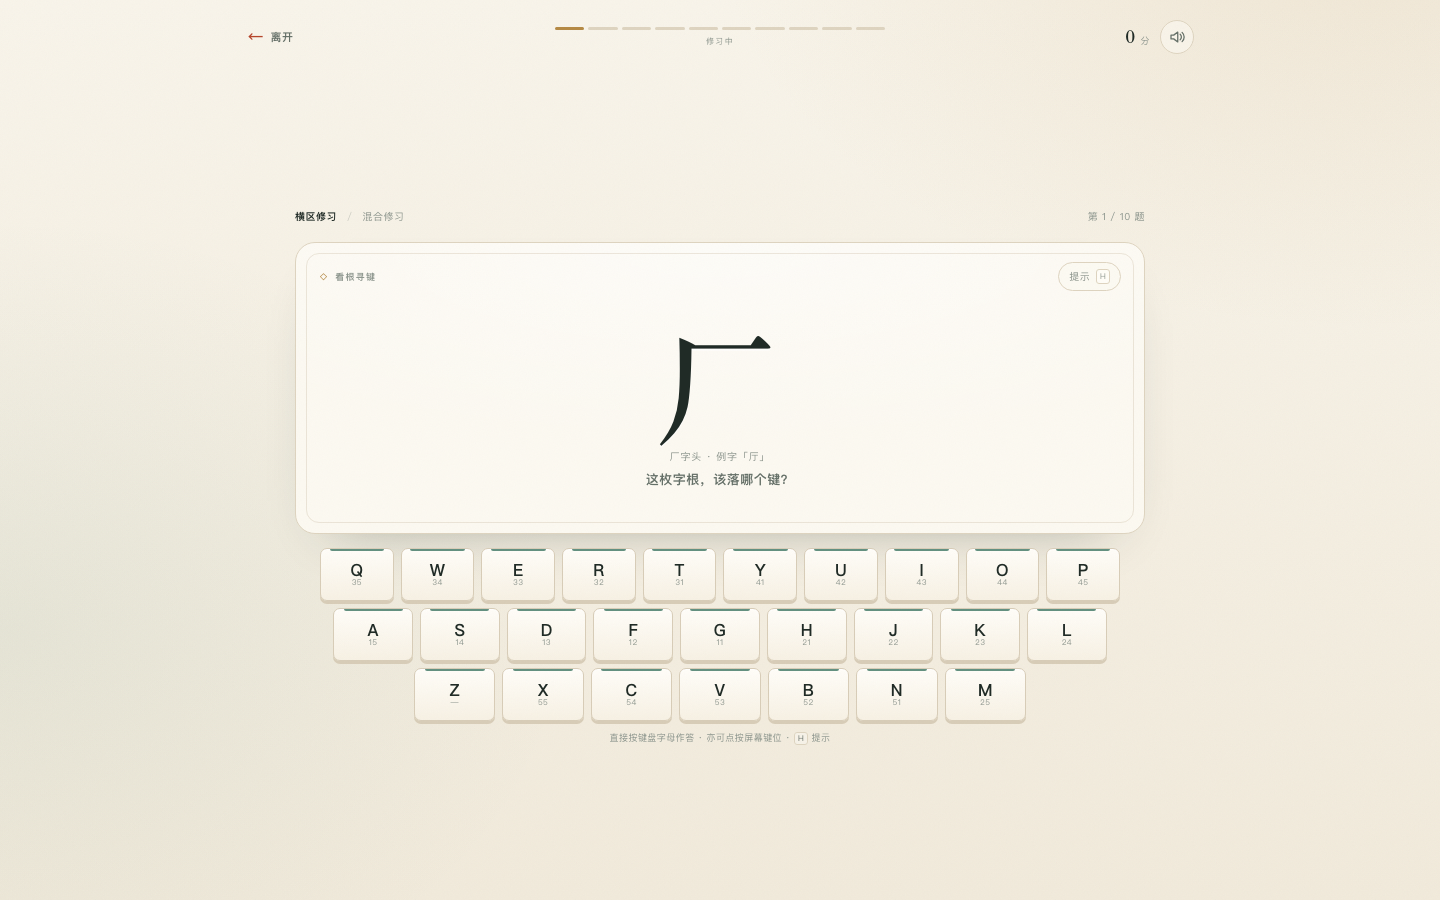
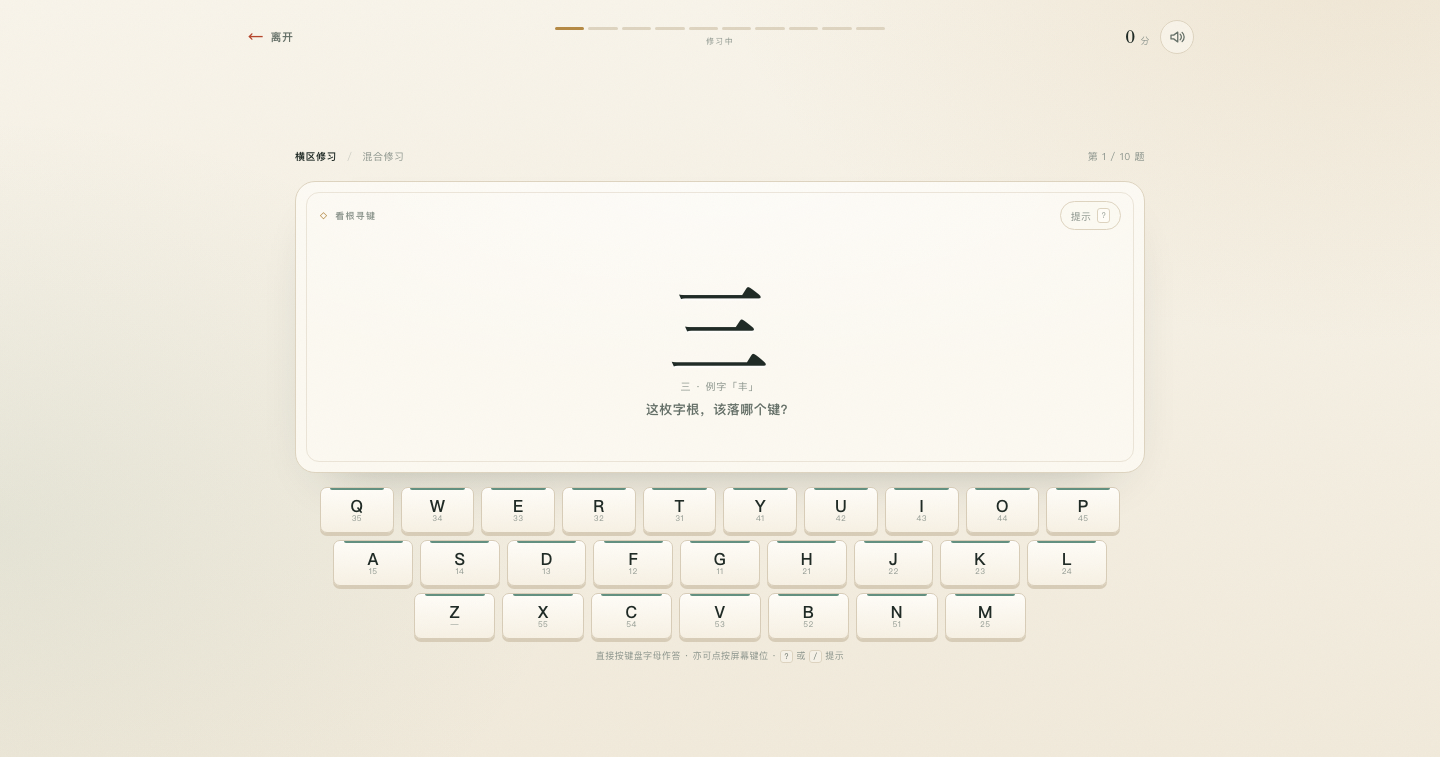
feat(wubi): 口诀簿增加语音朗读，提示快捷键改为 ? /
- 按字母键 A-Z 朗读对应口诀（SpeechSynthesis API）
- 朗读时高亮行、脉冲动画、顶部状态提示
- 提示快捷键从 H 改为 ? 或 /，避免占用五笔键位
- 更新引导文案、无障碍标签与截图

diff --git a/wubi/index.html b/wubi/index.html
@@ -662,8 +662,11 @@
   .toggle-pill[aria-pressed="true"]::before { background: var(--cinnabar); }
   .toggle-pill:hover { transform: translateY(-1px); }
 
-  .book-note { display: flex; align-items: center; gap: 8px; margin: 17px 0 8px; color: var(--ink-faint); font-size: 10px; letter-spacing: .05em; }
-  .book-note::before { content: "○"; color: var(--gold); font-size: 9px; }
+  .book-note { display: flex; align-items: center; gap: 8px; margin: 17px 0 8px; color: var(--ink-faint); font-size: 10px; letter-spacing: .05em; transition: color .16s; }
+  .book-note::before { content: "○"; color: var(--gold); font-size: 9px; transition: color .16s; }
+  .book-note.is-speaking { color: var(--ink); }
+  .book-note.is-speaking::before { content: "◉"; color: var(--cinnabar); animation: voicePulse 1s ease-in-out infinite; }
+  @keyframes voicePulse { 0%, 100% { opacity: .45; transform: scale(.9); } 50% { opacity: 1; transform: scale(1.14); } }
   .mnemonic-book { display: flex; flex-direction: column; gap: 30px; padding-top: 12px; }
   .book-zone { --zc: var(--jade); }
   .book-zone-head { display: flex; align-items: center; gap: 12px; padding: 0 2px 10px; border-bottom: 1px solid var(--line); }
@@ -687,6 +690,12 @@
   }
   .book-line:hover { background: rgba(255, 253, 247, .58); }
   .book-line.revealed { background: rgba(252, 249, 241, .8); }
+  .book-line.is-speaking {
+    background: color-mix(in srgb, var(--zc) 7%, #FFFDF8);
+    box-shadow: inset 3px 0 0 var(--zc);
+  }
+  .book-line.is-speaking .line-mnemonic { color: var(--zc); }
+  .book-line.is-speaking .line-key { border-color: var(--zc); box-shadow: 0 0 0 3px color-mix(in srgb, var(--zc) 13%, transparent); }
   .line-key {
     width: 42px;
     height: 42px;
@@ -708,6 +717,10 @@
   .line-roots .roots-label { font-family: var(--sans); font-size: 9px; letter-spacing: .03em; color: var(--ink-faint); opacity: .75; margin-right: 4px; }
   .line-side { display: flex; align-items: center; gap: 9px; color: var(--ink-faint); font-size: 9px; letter-spacing: .04em; white-space: nowrap; }
   .line-side .line-code { color: var(--ink-faint); font-family: var(--serif); }
+  .line-listen { display: inline-flex; align-items: center; gap: 3px; color: var(--zc); opacity: .7; transition: opacity .16s, color .16s; }
+  .line-listen svg { width: 13px; height: 13px; fill: none; stroke: currentColor; stroke-width: 1.5; stroke-linecap: round; stroke-linejoin: round; }
+  .book-line:hover .line-listen, .book-line:focus-visible .line-listen, .book-line.is-speaking .line-listen { opacity: 1; }
+  .book-line.is-speaking .line-listen { color: var(--cinnabar); }
   .line-side .reveal-hint { color: var(--cinnabar); opacity: 0; transition: opacity .16s; }
   .book-line:hover .reveal-hint, .book-line:focus-visible .reveal-hint { opacity: 1; }
   .book-line.revealed .reveal-hint { opacity: 1; color: var(--jade); }
@@ -1313,7 +1326,7 @@
       <div>
         <p class="eyebrow">口诀簿 · 廿五句</p>
         <h1>读诀，寻键</h1>
-        <p class="page-lede">五笔口诀把字根串成有韵律的短句。先读熟，再遮住键位默想；想不起来时，点开看一眼也无妨。</p>
+        <p class="page-lede">五笔口诀把字根串成有韵律的短句。按字母键 A–Z 就能听对应的口诀；先读熟，再遮住键位默想。</p>
       </div>
       <div class="page-action book-actions">
         <button class="toggle-pill" type="button" id="bookMaskToggle" aria-pressed="false">遮住键位</button>
@@ -1323,7 +1336,7 @@
         </button>
       </div>
     </div>
-    <p class="book-note" id="bookNote">点击上方「遮住键位」，再逐句默想与翻看。</p>
+    <p class="book-note" id="bookNote">按字母键 A–Z 听对应口诀；点击任意一句也可朗读。</p>
     <div class="mnemonic-book" id="mnemonicBook"></div>
   </section>
 
@@ -1360,7 +1373,7 @@
         <div class="question-card" id="questionCard" aria-live="polite">
           <div class="q-topline">
             <span class="q-type" id="qType">看根寻键</span>
-            <button class="hint-btn" type="button" id="hintBtn">提示 <kbd>H</kbd></button>
+            <button class="hint-btn" type="button" id="hintBtn" title="快捷键：? 或 /">提示 <kbd>?</kbd></button>
           </div>
           <div class="q-body" id="qBody"></div>
           <div class="q-result" id="qResult" hidden></div>
@@ -1368,7 +1381,7 @@
 
         <div class="keyboard-wrap">
           <div class="keyboard" id="keyboard" aria-label="五笔键位键盘"></div>
-          <p class="keyboard-note">直接按键盘字母作答 · 亦可点按屏幕键位 · <kbd>H</kbd> 提示</p>
+          <p class="keyboard-note">直接按键盘字母作答 · 亦可点按屏幕键位 · <kbd>?</kbd> 或 <kbd>/</kbd> 提示</p>
         </div>
       </div>
 
@@ -1717,7 +1730,8 @@
     save.sound = !save.sound;
     persist();
     updateSoundButtons();
-    if (save.sound) playHint();
+    if (!save.sound) stopBookSpeech(true);
+    else playHint();
     toast(save.sound ? '音效已开启' : '音效已关闭');
   }
 
@@ -1865,6 +1879,7 @@
 
   /* ======================= 视图切换 ======================= */
   function showView(name) {
+    if (name !== 'book') stopBookSpeech(false);
     state.view = name;
     $all('.view').forEach(view => { view.hidden = view.id !== 'view-' + name; });
     document.body.classList.toggle('in-game', name === 'game');
@@ -1954,7 +1969,94 @@
   }
 
   /* ======================= 口诀簿 ======================= */
+  let bookSpeechToken = 0;
+
+  function bookDefaultNote() {
+    return state.bookMasked
+      ? '按字母键 A–Z 听对应口诀；点击任意一句可翻看键位。'
+      : '按字母键 A–Z 听对应口诀；点击任意一句也可朗读。';
+  }
+
+  function pickChineseVoice() {
+    if (!('speechSynthesis' in window)) return null;
+    const voices = window.speechSynthesis.getVoices() || [];
+    const chinese = voices.filter(v => /^zh([-_]|$)/i.test(v.lang || '') || /chinese|mandarin|普通话|中文/i.test((v.name || '') + ' ' + (v.lang || '')));
+    return chinese.find(v => /^zh[-_]?cn/i.test(v.lang || '')) || chinese[0] || null;
+  }
+
+  function stopBookSpeech(restoreNote = true) {
+    bookSpeechToken += 1;
+    try {
+      if ('speechSynthesis' in window) window.speechSynthesis.cancel();
+    } catch (err) { /* 不支持语音合成时静默忽略 */ }
+    $all('.book-line.is-speaking').forEach(line => line.classList.remove('is-speaking'));
+    const note = $('#bookNote');
+    if (note) {
+      note.classList.remove('is-speaking');
+      if (restoreNote && state.view === 'book') note.textContent = bookDefaultNote();
+    }
+  }
+
+  function speakBookKey(key) {
+    if (!KEYS[key]) { toast('Z 键不属于五笔字根键'); return; }
+    if (!save.sound) { toast('音效已关闭，点右上角声音按钮后再朗读'); return; }
+    const line = document.querySelector(`.book-line[data-book-key="${key}"]`);
+    if (!line) return;
+
+    stopBookSpeech(false);
+    const token = ++bookSpeechToken;
+    line.classList.add('is-speaking');
+    const note = $('#bookNote');
+    if (note) {
+      note.classList.add('is-speaking');
+      note.textContent = `正在朗读 ${key} 键 · ${KEYS[key].mnemonic}`;
+    }
+
+    const rect = line.getBoundingClientRect();
+    if (rect.top < 78 || rect.bottom > window.innerHeight - 26) {
+      line.scrollIntoView({ behavior: reduceMotion ? 'auto' : 'smooth', block: 'center' });
+    }
+
+    const supported = 'speechSynthesis' in window && 'SpeechSynthesisUtterance' in window;
+    if (!supported) {
+      toast('当前浏览器不支持语音朗读');
+      window.setTimeout(() => { if (token === bookSpeechToken) stopBookSpeech(true); }, 1600);
+      return;
+    }
+
+    try {
+      window.speechSynthesis.cancel();
+      const utter = new SpeechSynthesisUtterance(KEYS[key].mnemonic);
+      const voice = pickChineseVoice();
+      utter.lang = 'zh-CN';
+      utter.rate = .82;
+      utter.pitch = 1;
+      utter.volume = 1;
+      if (voice) utter.voice = voice;
+
+      let safetyTimer = 0;
+      const finish = (message) => {
+        window.clearTimeout(safetyTimer);
+        if (token !== bookSpeechToken) return;
+        stopBookSpeech(true);
+        if (message) toast(message);
+      };
+      utter.onend = () => finish();
+      utter.onerror = (event) => {
+        if (token !== bookSpeechToken) return;
+        const canceled = event && (event.error === 'canceled' || event.error === 'interrupted');
+        finish(canceled ? '' : '朗读未能播放，请检查系统的中文语音设置');
+      };
+      safetyTimer = window.setTimeout(() => finish(), 15000);
+      window.speechSynthesis.speak(utter);
+    } catch (err) {
+      stopBookSpeech(true);
+      toast('朗读未能播放，请检查系统的中文语音设置');
+    }
+  }
+
   function renderBook() {
+    stopBookSpeech(false);
     const html = [];
     for (let z = 1; z <= 5; z++) {
       const zone = ZONES[z];
@@ -1969,11 +2071,10 @@
           ${zone.keys.map(k => {
             const data = KEYS[k];
             const masked = state.bookMasked && !state.revealedBookKeys.has(k);
-            const tag = state.bookMasked ? 'button' : 'div';
-            const attrs = state.bookMasked
-              ? `type="button" data-book-key="${k}" aria-label="${masked ? '口诀：' + escapeHtml(data.mnemonic) + '，键位已遮住' : k + ' 键口诀：' + escapeHtml(data.mnemonic)}" aria-pressed="${masked ? 'false' : 'true'}"`
-              : '';
-            return `<${tag} class="book-line z${z}${state.bookMasked ? ' can-reveal' : ''}${masked ? '' : ' revealed'}" ${attrs}>
+            const label = state.bookMasked
+              ? (masked ? `口诀：${data.mnemonic}，键位已遮住` : `${k} 键口诀：${data.mnemonic}，点击收回键位`)
+              : `朗读 ${k} 键口诀：${data.mnemonic}`;
+            return `<button type="button" class="book-line z${z}${state.bookMasked ? ' can-reveal' : ' can-listen'}${masked ? '' : ' revealed'}" data-book-key="${k}" aria-label="${escapeHtml(label)}"${state.bookMasked ? ` aria-pressed="${masked ? 'false' : 'true'}"` : ''}>
               <span class="line-key${masked ? ' hidden-key' : ''}">${masked ? '？' : k}</span>
               <span class="line-copy">
                 <span class="line-mnemonic">${escapeHtml(data.mnemonic)}</span>
@@ -1981,17 +2082,18 @@
               </span>
               <span class="line-side">
                 <span class="line-code">${masked ? '' : '码位 ' + data.code}</span>
-                <span class="reveal-hint">${masked ? '翻看' : '已翻开'}</span>
+                ${state.bookMasked
+                  ? `<span class="reveal-hint">${masked ? '翻看' : '已翻开'}</span>`
+                  : `<span class="line-listen" aria-hidden="true"><svg viewBox="0 0 16 16"><path d="M2.5 6h2.2L8 3.3v9.4L4.7 10H2.5z"/><path d="M10.3 5.7a3.1 3.1 0 0 1 0 4.6M12.1 4a5.4 5.4 0 0 1 0 8"/></svg>听</span>`}
               </span>
-            </${tag}>`;
+            </button>`;
           }).join('')}
         </div>
       </section>`);
     }
     $('#mnemonicBook').innerHTML = html.join('');
-    $('#bookNote').textContent = state.bookMasked
-      ? '键位已遮住，点击任意一句可单独翻看；再点一次收回。'
-      : '点击上方「遮住键位」，再逐句默想与翻看。';
+    $('#bookNote').textContent = bookDefaultNote();
+    $('#bookNote').classList.remove('is-speaking');
     const toggle = $('#bookMaskToggle');
     toggle.setAttribute('aria-pressed', state.bookMasked ? 'true' : 'false');
     toggle.textContent = state.bookMasked ? '显示键位' : '遮住键位';
@@ -2101,7 +2203,7 @@
     renderProgress();
     updateCombo();
     $('#hintBtn').disabled = false;
-    $('#hintBtn').innerHTML = '提示 <kbd>H</kbd>';
+    $('#hintBtn').innerHTML = '提示 <kbd>?</kbd>';
 
     const card = $('#questionCard');
     card.classList.remove('correct', 'wrong');
@@ -2420,7 +2522,8 @@
     $('#mnemonicBook').addEventListener('click', e => {
       const line = e.target.closest('[data-book-key]');
       if (!line) return;
-      toggleBookLine(line);
+      if (state.bookMasked) toggleBookLine(line);
+      else speakBookKey(line.dataset.bookKey);
     });
 
     $('#keyDialog').addEventListener('click', e => {
@@ -2468,6 +2571,17 @@
     });
 
     window.addEventListener('keydown', e => {
+      if (state.view === 'book') {
+        if (e.metaKey || e.ctrlKey || e.altKey || e.isComposing) return;
+        if (e.repeat || $('#keyDialog').open) return;
+        const bookLetter = e.key.length === 1 ? e.key.toUpperCase() : '';
+        if (/^[A-Z]$/.test(bookLetter)) {
+          if (!KEYS[bookLetter]) { toast('Z 键不属于五笔字根键'); return; }
+          e.preventDefault();
+          speakBookKey(bookLetter);
+        }
+        return;
+      }
       if (state.view !== 'game' || !state.session) return;
       if (e.metaKey || e.ctrlKey || e.altKey) return;
       if (e.repeat) { e.preventDefault(); return; }
@@ -2484,7 +2598,12 @@
         return;
       }
       if (e.key === 'Escape') { e.preventDefault(); exitGame(); return; }
-      if (e.key === 'h' || e.key === 'H') { e.preventDefault(); showHint(); return; }
+      // 所有 A–Z 都是可作答的键位，提示改用 ? 或 /，避免占用 H 键。
+      if (['?', '/', '？', '／'].includes(e.key) || e.code === 'Slash' || e.code === 'NumpadDivide') {
+        e.preventDefault();
+        showHint();
+        return;
+      }
       const letter = e.key.length === 1 ? e.key.toUpperCase() : '';
       if (/^[A-Z]$/.test(letter)) {
         e.preventDefault();
@@ -2498,6 +2617,8 @@
   }
 
   /* ======================= 启动 ======================= */
+  if ('speechSynthesis' in window) window.speechSynthesis.getVoices();
+  window.addEventListener('pagehide', () => stopBookSpeech(false));
   updateSoundButtons();
   bindEvents();
   renderHome();

diff --git a/wubi/README.md b/wubi/README.md
@@ -6,6 +6,8 @@
 
 ![根位速记游戏界面](screenshot-game.png)
 
+![按 G 键朗读口诀](screenshot-book.png)
+
 ## 打开方式
 
 - 双击 `index.html`（推荐新版 Chrome / Edge / Safari）。
@@ -34,8 +36,8 @@
 
 | 按键 | 作用 |
 | --- | --- |
-| `A`–`Z` | 选择答案键位（`Z` 不属于五笔字根键） |
-| `H` | 显示本题提示（会中断连对，答对得 5 分） |
+| `A`–`Z` | 游戏中作答；口诀簿中朗读对应口诀（`Z` 不属于五笔字根键） |
+| `?` 或 `/` | 显示本题提示（会中断连对，答对得 5 分） |
 | `Enter` / `Space` | 反馈页继续下一题 |
 | `Esc` | 离开当前修习 |
 
@@ -43,7 +45,7 @@
 
 - **修习**：今日字根、五区课目、综合修习，以及今日题量 / 掌握键数 / 累计正确率 / 连续修习天数。
 - **字根图**：25 键完整速查，包含每一键的口诀、字根与例字；按分区筛选，点键位可看详情并单独专练这一键。
-- **口诀簿**：25 句口诀集中翻阅；点「遮住键位」后可逐句翻看、默想。页内还能直接开始「口诀抽背」。
+- **口诀簿**：25 句口诀集中翻阅。按对应字母键（如 `G`）会用浏览器中文语音念出这一键的口诀；未遮键位时点击任意一句也能朗读。点「遮住键位」后可逐句翻看、默想。页内还能直接开始「口诀抽背」。
 - **进度**：保存在浏览器 `localStorage`，键位掌握度、课目星级和练习统计都会保留。页脚「清除记录」可重置。
 
 ## 设计上的几个取舍
@@ -51,8 +53,9 @@
 - **只练「认根」和「找键」**：不做整字拆分编码，避免把简码、识别码等进阶规则混进入门练习。
 - **错误即教学**：答错时展示完整键位、口诀和根表，不设生命值，不催促。
 - **两种输入都支持**：物理键盘培养指法，屏幕键位保证手机可用。
+- **口诀可以听**：口诀簿里按字母键，就用系统中文语音念出对应口诀；语音依赖浏览器与系统的中文语音包。
 - **提示有代价但不惩罚**：提示会让本题得分减半并中断连对，仍算一次有效练习。
-- **离线优先**：没有字体、图片、音频等外部请求；音效由 Web Audio 实时合成，视觉噪点用内联 SVG 生成。
+- **离线优先**：没有字体、图片、音频等外部请求；音效由 Web Audio 实时合成，口诀朗读使用浏览器内置的语音合成。
 - **无障碍与适配**：支持键盘操作、减少动态效果偏好、桌面 / 平板 / 手机布局与安全区。
 
 ## 想自己改内容？
@@ -69,6 +72,7 @@
 
 - 已在桌面 1440 / 1024、平板 768、手机 390 / 320 宽度下检查过布局，无横向溢出。
 - 使用 `dialog`、`color-mix()`、`dvh` 等现代前端特性，建议使用较新的浏览器。
+- 口诀朗读使用浏览器 `speechSynthesis`，需要系统装有中文语音包；若系统没有可用中文语音，会提示朗读失败。右上角声音按钮同时控制音效与朗读。
 - 所有内容与进度均留在本机，不收集任何数据。
 
 ## 字根资料
